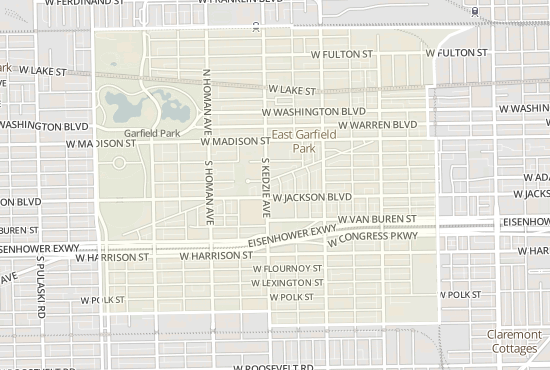
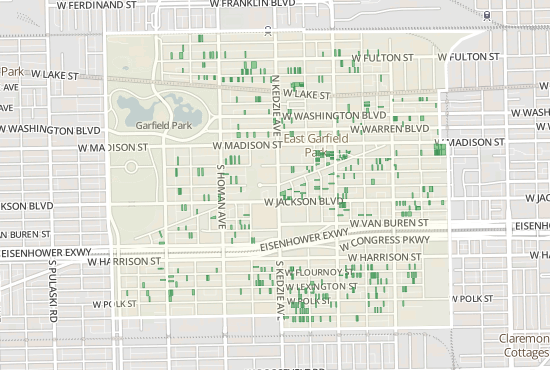
hiding aldermen holds closes #50, more prominent pilot status

diff --git a/templates/index.html b/templates/index.html
@@ -9,9 +9,9 @@
         <div class='row'>
           <div class='col-md-6'>
             <div class='well'>
-              <h3>East Garfield Park</h3>
+              <h3>East Garfield Park <span class='label label-success'>Open</span></h3>
 
-              <p> The Large Lot Program is open again for <strong>East Garfield Park</strong>! Applications will be accepted until <strong>August 4th, 2014</strong>. Apply for a lot today!
+              <p> The second Large Lot Program is open in <strong>East Garfield Park</strong>! Applications will be accepted until <strong>August 4th, 2014</strong>. <a href='{% url "apply" %}'>Apply for a lot today!</a>
               </p>
 
               <div class='row'>
@@ -26,9 +26,9 @@
 
           <div class='col-md-6'>
             <div class='well'>
-              <h3>Englewood, Washington Park and Woodlawn</h3>
+              <h3>Greater Englewood Area <span class='label label-applied'>Closed</span></h3>
 
-              <p>The Englewood pilot ended on <strong>April 21st, 2014</strong> and <strong>414 applications</strong> for lots were received. Check the status of each lot application.</p>
+              <p>The first Large Lot pilot program ended on <strong>April 21st, 2014</strong> and <strong>414 applications</strong> for lots were received. <a href='{% url "status" %}'>Check the status</a> of each lot application.</p>
 
               <div class='row'>
                 <div class='col-md-10 col-md-offset-1'>

diff --git a/templates/base.html b/templates/base.html
@@ -45,7 +45,6 @@
           <ul class="nav navbar-nav pull-right">
             <li {% if request.path == '/' %}class='active' {% endif %}><a href="{% url 'home' %}">Home</a></li>
             <li {% if request.path == '/apply/' %}class='active' {% endif %}><a href="{% url 'apply' %}">Apply</a></li>
-            <li {% if request.path == '/status/' %}class='active' {% endif %}><a href="{% url 'status' %}">Application status</a></li>
             <li {% if request.path == '/faq/' %}class='active' {% endif %}><a href="{% url 'faq' %}">FAQ</a></li>
             <li {% if request.path == '/about/' %}class='active' {% endif %}><a href="{% url 'about' %}">About</a></li>
             {% if request.user.is_authenticated %}<li><a href="{% url 'logout' %}">Logout</a></li>{% endif %}

diff --git a/templates/apply.html b/templates/apply.html
@@ -14,7 +14,7 @@
 {% block content %}
       <div class='col-md-12'>
 
-        <h1>East Garfield Park</h1>
+        <h1>East Garfield Park <span class='label label-success'>Open</span></h1>
 
         <p>Residents and organizations (excluding churches) in East Garfield Park can apply to purchase <strong>up to two</strong> vacant residential lots owned by the City of Chicago. Purchasers must <strong>already own property on the same block</strong> as the lot. Applications will be accepted until <strong>August 4th, 2014</strong> at 11:59pm. For more information, read the <a href='/faq/'>FAQ</a> and <a href='/about/'>about</a> pages.</p>
 

diff --git a/templates/status.html b/templates/status.html
@@ -20,7 +20,7 @@
 
         <div class='row'>
           <div class='col-md-12'>
-            <h1>Englewood, Washington Park and Woodlawn</h1>
+            <h1>Greater Englewood Area <span class='label label-applied'>Closed</span></h1>
             <div class='row'>
               <div class='col-md-8'>
                 <p>The Englewood pilot ended on <strong>April 21st, 2014</strong> and <strong>414 applications</strong> for lots were received. If you submitted an application, browse the map or enter your address below to see what lots have been applied for.</p>

diff --git a/lots/static/js/largelots_pilot2.js b/lots/static/js/largelots_pilot2.js
@@ -71,7 +71,7 @@ var LargeLots = {
           cartodb_logo: false,
           sublayers: [
               {
-                  sql: "select * from egp_parcels where city_owned='T' and residential='T'",
+                  sql: "select * from egp_parcels where city_owned='T' and residential='T' and alderman_hold != 'T'",
                   cartocss: $('#egp-styles').html().trim(),
                   interactivity: fields
               },
